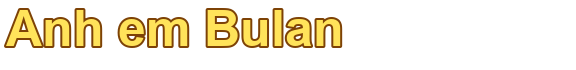
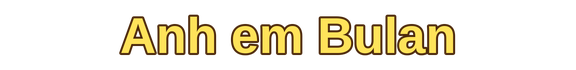
8.14

diff --git a/backend/src/GunnyServer.java b/backend/src/GunnyServer.java
@@ -222,7 +222,7 @@ public final class GunnyServer implements AutoCloseable {
         long size=end-start+1;h.set("Content-Length",""+size);if(x.getRequestMethod().equals("HEAD")){x.sendResponseHeaders(status,-1);x.close();return;}x.sendResponseHeaders(status,size);try(InputStream in=Files.newInputStream(file);OutputStream out=x.getResponseBody()){in.skipNBytes(start);byte[] buffer=new byte[16384];for(long remaining=size;remaining>0;){int n=in.read(buffer,0,(int)Math.min(buffer.length,remaining));if(n<0)break;out.write(buffer,0,n);remaining-=n;}}finally{x.close();}
     }
     void tcpRequired(HttpExchange x)throws IOException {x.sendResponseHeaders(410,-1);x.close();}
-    static String capabilities(boolean admin,boolean tcp){return "{\"sulan7912\":1,\"tribal797\":1,\"clock793\":1,\"vip\":1,\"deck\":1,\"version\":\"7.9.18\",\"tribalBotFix\":2,\"gifts\":1,\"playerui\":1,\"prefetch\":1,\"shotframes\":1,\"expansion\":1,\"forge\":1,\"forgechance\":1,\"delta\":1,\"tribal\":1,\"dungeon\":1,\"campaign\":1,\"flock\":1,\"actors\":1,\"live\":1,\"growth\":1,\"events\":1,\"charge\":1,\"progress\":1,\"bag\":1,\"admin\":"+(admin?1:0)+",\"ok\":true,\"tcp\":"+(tcp?1:0)+",\"longpoll\":"+(tcp?0:1)+",\"protocol\":1,\"controls\":2,\"rooms\":2,\"maps\":6,\"async\":1,\"seats\":6,\"departures\":1,\"pow\":2,\"replay\":1,\"chunks\":1,\"social\":1,\"lobbychat\":1,\"chatemoji\":1,\"roomchat\":1,\"matchmaking\":1,\"waitbot\":1,\"items\":2,\"cards\":1,\"shop\":1,\"arsenal\":2,\"emotions\":1,\"presence\":1,\"character\":1,\"equipment\":1,\"roomfix\":1}";}
+    static String capabilities(boolean admin,boolean tcp){return "{\"sulan7912\":1,\"tribal797\":1,\"clock793\":1,\"vip\":1,\"deck\":1,\"version\":\"7.9.18\",\"tribalBotFix\":2,\"tribalHF3\":1,\"gifts\":1,\"playerui\":1,\"prefetch\":1,\"shotframes\":1,\"expansion\":1,\"forge\":1,\"forgechance\":1,\"delta\":1,\"tribal\":1,\"dungeon\":1,\"campaign\":1,\"flock\":1,\"actors\":1,\"live\":1,\"growth\":1,\"events\":1,\"charge\":1,\"progress\":1,\"bag\":1,\"admin\":"+(admin?1:0)+",\"ok\":true,\"tcp\":"+(tcp?1:0)+",\"longpoll\":"+(tcp?0:1)+",\"protocol\":1,\"controls\":2,\"rooms\":2,\"maps\":6,\"async\":1,\"seats\":6,\"departures\":1,\"pow\":2,\"replay\":1,\"chunks\":1,\"social\":1,\"lobbychat\":1,\"chatemoji\":1,\"roomchat\":1,\"matchmaking\":1,\"waitbot\":1,\"items\":2,\"cards\":1,\"shop\":1,\"arsenal\":2,\"emotions\":1,\"presence\":1,\"character\":1,\"equipment\":1,\"roomfix\":1}";}
     void health(HttpExchange x)throws IOException{byte[] b=capabilities(admin.enabled,false).getBytes(java.nio.charset.StandardCharsets.UTF_8);x.getResponseHeaders().set("Content-Type","application/json");x.sendResponseHeaders(200,b.length);try(OutputStream out=x.getResponseBody()){out.write(b);}}
     void emailConfirmation(HttpExchange x)throws IOException{accounts.handle(x);}
     boolean limit(String key,int maximum){Window w=limits.computeIfAbsent(key,k->new Window());synchronized(w){long now=System.currentTimeMillis();if(now-w.start>60000){w.start=now;w.count=0;}return ++w.count<=maximum;}}
@@ -325,5 +325,5 @@ public final class GunnyServer implements AutoCloseable {
     }
     void tick(){try{long now=System.currentTimeMillis();for(Room r:rooms.values())synchronized(r){boolean present=false,online=false,retain=ResultResume.retain(r,now);for(Session s:r.members)if(s!=null){if(now-s.lastSeen<300000)present=true;if(now-s.lastSeen<45000)online=true;}for(Session member:r.members.clone())if(member!=null&&!TribalDungeon.is(r)&&(r.phase==1||r.phase==3||r.phase==2&&!retain)&&now-member.lastSeen>45000)leave(member);if(!retain&&(!present||r.phase==2&&!online&&now-r.lastActive>180000))rooms.remove(r.id);else r.tick();}for(Session s:sessions.values())if(s.expiry<now){if(!TribalDungeon.isRoom(this,s.room)&&(rooms.get(s.room)==null||!ResultResume.retain(rooms.get(s.room),now)))leave(s);sessions.remove(s.token);}if(limits.size()>1024)limits.entrySet().removeIf(e->now-e.getValue().start>60000);}catch(Exception e){System.err.println("Battle tick failed: "+e.getClass().getSimpleName());}finally{events.signal();}}
     public void close(){closed=true;events.signal();accounts.sessions.clear();if(tcp!=null)tcp.close();admin.close();longPoll.close();http.stop(0);clock.shutdownNow();chatMaintenance.shutdownNow();workers.shutdownNow();saves.shutdownNow();}
-    public static void main(String[] args)throws Exception {TribalConfig.load();boolean test=CloudStore.env("GUNNY_TEST_MODE").equals("1");if(test&&!CloudStore.env("RENDER").isEmpty())throw new IllegalStateException("Test accounts are prohibited on Render");int port=Integer.parseInt(CloudStore.env("PORT").isEmpty()?"8080":CloudStore.env("PORT"));String bind=test?"127.0.0.1":"0.0.0.0";GunnyServer server=new GunnyServer(new InetSocketAddress(bind,port),Path.of(CloudStore.env("GUNNY_ASSETS").isEmpty()?"assets1":CloudStore.env("GUNNY_ASSETS")),test?new CloudStore.Memory():new CloudStore());server.tcpOnly=true;int tcpPort=Integer.parseInt(CloudStore.env("TCP_PORT").isEmpty()?"22122":CloudStore.env("TCP_PORT"));if(tcpPort>0)server.startTcp(bind,tcpPort,Integer.parseInt(CloudStore.env("MAX_TCP_CLIENTS").isEmpty()?"128":CloudStore.env("MAX_TCP_CLIENTS")));Runtime.getRuntime().addShutdownHook(new Thread(server::close));System.out.println("Gunny 7.9.18 HF2 (tribalBotFix=2) HTTP listening on "+bind+":"+server.port()+", TCP on "+bind+":"+server.tcpPort()+(test?" (local test accounts only)":""));}
+    public static void main(String[] args)throws Exception {TribalConfig.load();boolean test=CloudStore.env("GUNNY_TEST_MODE").equals("1");if(test&&!CloudStore.env("RENDER").isEmpty())throw new IllegalStateException("Test accounts are prohibited on Render");int port=Integer.parseInt(CloudStore.env("PORT").isEmpty()?"8080":CloudStore.env("PORT"));String bind=test?"127.0.0.1":"0.0.0.0";GunnyServer server=new GunnyServer(new InetSocketAddress(bind,port),Path.of(CloudStore.env("GUNNY_ASSETS").isEmpty()?"assets1":CloudStore.env("GUNNY_ASSETS")),test?new CloudStore.Memory():new CloudStore());server.tcpOnly=true;int tcpPort=Integer.parseInt(CloudStore.env("TCP_PORT").isEmpty()?"22122":CloudStore.env("TCP_PORT"));if(tcpPort>0)server.startTcp(bind,tcpPort,Integer.parseInt(CloudStore.env("MAX_TCP_CLIENTS").isEmpty()?"128":CloudStore.env("MAX_TCP_CLIENTS")));Runtime.getRuntime().addShutdownHook(new Thread(server::close));System.out.println("Gunny 7.9.18 HF3 (tribalBotFix=2, tribalHF3=1) HTTP listening on "+bind+":"+server.port()+", TCP on "+bind+":"+server.tcpPort()+(test?" (local test accounts only)":""));}
 }

diff --git a/backend/src/Battle.java b/backend/src/Battle.java
@@ -20,7 +20,7 @@ final class Battle {
     int enemyOf(int actor){if(TribalRules.active(this))return TribalRules.target(this,actor);int best=actor==0?1:0,distance=99999;for(int i=0;i<unitCount;i++)if(i!=actor&&units[i].hp>0&&(!teams||units[i].team!=units[actor].team)){int d=Math.abs(units[i].x-units[actor].x);if(d<distance){distance=d;best=i;}}return best;}
     static int targetY(Unit u){return u.y-(u.npc>=TribalRules.SULAN?30:u.npc==3?42:u.npc>0?16:12);}
     static boolean hitsUnit(Unit u,int x,int y){int dx=x-u.x,dy=y-targetY(u);if(u.npc==0)return dx*dx+dy*dy<70;int rx=u.npc>=TribalRules.SULAN?22:u.npc==3?25:16,ry=u.npc>=TribalRules.SULAN?31:u.npc==3?43:15;if(Math.abs(dx)>rx||Math.abs(dy)>ry)return false;return dx*dx*ry*ry+dy*dy*rx*rx<=rx*rx*ry*ry;}
-    static int gravity(Ball b){return b.weapon==TribalRules.SPIRIT_SHOT?20:TribalRules.payload(b.weapon)?6:b.fly||b.freeze?11:b.weapon==4?14:b.weapon==2?10:b.weapon==7?12:11;}
+    static int gravity(Ball b){return (b.weapon==TribalRules.SPIRIT_SHOT||b.weapon==TribalRules.SPEAR_SHOT||b.weapon==TribalRules.CHIEF_SHOT||b.weapon==TribalRules.FIRE_SHOT)?20:TribalRules.payload(b.weapon)?6:b.fly||b.freeze?11:b.weapon==4?14:b.weapon==2?10:b.weapon==7?12:11;}
     static int windStep(int wind,Ball b){return b.weapon==AntCaveRules.QUEEN_ARROW||TribalRules.payload(b.weapon)?0:wind/(b.fly||b.freeze?7:b.weapon==4?11:b.weapon==2?5:b.weapon==7?8:b.weapon==1?9:7);}
     static int baseDamage(int weapon){return weapon==0?290:weapon==1?390:weapon==2?300:weapon==4?370:weapon==8?410:weapon==7?315:330;}
     static int baseRadius(int weapon){return weapon==0?15:weapon==1?10:weapon==2?10:weapon==4?17:weapon==7?14:12;}
@@ -135,7 +135,7 @@ final class Battle {
         if(!input())return;Unit u=units[active];u.face=dir;
         refreshAim(u);int nx=u.x+dir;if(u.energy<2||nx<12||nx>=W-12||blockedStep(u.x,nx,active,20))return;
         int rise=0;while(rise<6&&(ground.solid(nx-2,u.y-rise-1)||ground.solid(nx+2,u.y-rise-1)))rise++;
-        if(rise>=6)return;u.x=nx;u.y-=rise;u.energy-=2;u.walk++;refreshAim(u);
+        if(rise>=6)return;u.x=nx;u.y-=rise;u.energy-=2;u.walk++;refreshAim(u);if(SulanRules.active(this))SulanRules.updateFacing(this);
     }
     static int propCost(int id){return id==0||id==1?110:id==2?90:id==3||id==4?150:0;}
     boolean prop(int id){
@@ -206,7 +206,7 @@ final class Battle {
         for(int sub=0;sub<FLIGHT_SUBSTEPS;sub++)for(int i=ballCount-1;i>=0;i--){
             Ball b=balls[i];if(sub==0&&!b.fly&&!b.freeze)stampTrail(b);b.age++;if(b.homing){Unit target=units[enemyOf(b.owner)];int dx=target.x*256-b.x,dy=targetY(target)*256-b.y;int len=Math.max(1,(int)Math.sqrt((double)dx*dx+(double)dy*dy));b.vx=dx*1800/len;b.vy=dy*1800/len;}else{b.vx+=windStep(wind,b);b.vy+=gravity(b);if(b.guided)guide(b);}b.x+=b.vx/4;b.y+=b.vy/4;
             int x=b.x/256,y=b.y/256;boolean hit=!b.homing&&ground.solid(x,y);
-            if(!b.fly)for(int n=0;n<unitCount;n++){Unit u=units[n];if(u.hp>0&&(n!=b.owner||b.age>24)&&!(SulanRules.active(this)&&TribalRules.payload(b.weapon)&&units[b.owner].npc>0&&u.team==units[b.owner].team)&&hitsUnit(u,x,y))hit=true;}
+            if(!b.fly)for(int n=0;n<unitCount;n++){Unit u=units[n];if(u.hp>0&&(n!=b.owner||b.age>24)&&!(TribalRules.active(this)&&TribalRules.payload(b.weapon)&&units[b.owner].npc>0&&u.team==units[b.owner].team)&&hitsUnit(u,x,y))hit=true;}
             if(hit){impact(b);removeBall(i);}
             else if((sequentialAttack&&b.weapon!=AntCaveRules.QUEEN_ARROW&&(x<viewX||x>=viewX+viewWidth||y<viewY||y>=viewY+viewHeight))||x< -25||x>W+25||y>H+35||b.age>1600)removeBall(i);
         }
@@ -268,7 +268,7 @@ final class Battle {
     }
     void impact(Ball b){
         int x=b.x/256,y=b.y/256;
-        if(b.fly){int surface=ground.surface(x,Math.max(0,y-18));if(surface<H&&x>12&&x<W-12){units[b.owner].x=x;units[b.owner].y=surface;units[b.owner].vy=0;units[b.owner].landingTicks=32;}return;}
+        if(b.fly){int surface=ground.surface(x,Math.max(0,y-18));if(surface<H&&x>12&&x<W-12){units[b.owner].x=x;units[b.owner].y=surface;units[b.owner].vy=0;units[b.owner].landingTicks=32;if(SulanRules.active(this))SulanRules.updateFacing(this);}return;}
         if(b.freeze){if(SulanRules.active(this))SulanRules.extinguish(this,x,y);Blast ice=new Blast();ice.freeze=true;ice.x=x;ice.y=y;ice.weapon=b.weapon;if(blastCount<blasts.length)blasts[blastCount++]=ice;for(int i=0;i<unitCount;i++){Unit u=units[i];int dx=x-u.x,dy=y-targetY(u);if(u.hp>0&&!ally(b.owner,i)&&dx*dx+dy*dy<31*31){u.freezeTurns=2;u.frozen=1;}}hitSerial++;return;}
         Blast fx=new Blast();fx.x=x;fx.y=y;fx.radius=b.radius;fx.owner=b.owner;fx.weapon=b.weapon==AntCaveRules.QUEEN_ARROW?9:b.weapon;
         if(blastCount<blasts.length)blasts[blastCount++]=fx;

diff --git a/client/src/Battle.java b/client/src/Battle.java
@@ -20,7 +20,7 @@ final class Battle {
     int enemyOf(int actor){if(TribalRules.active(this))return TribalRules.target(this,actor);int best=actor==0?1:0,distance=99999;for(int i=0;i<unitCount;i++)if(i!=actor&&units[i].hp>0&&(!teams||units[i].team!=units[actor].team)){int d=Math.abs(units[i].x-units[actor].x);if(d<distance){distance=d;best=i;}}return best;}
     static int targetY(Unit u){return u.y-(u.npc>=TribalRules.SULAN?30:u.npc==3?42:u.npc>0?16:12);}
     static boolean hitsUnit(Unit u,int x,int y){int dx=x-u.x,dy=y-targetY(u);if(u.npc==0)return dx*dx+dy*dy<70;int rx=u.npc>=TribalRules.SULAN?22:u.npc==3?25:16,ry=u.npc>=TribalRules.SULAN?31:u.npc==3?43:15;if(Math.abs(dx)>rx||Math.abs(dy)>ry)return false;return dx*dx*ry*ry+dy*dy*rx*rx<=rx*rx*ry*ry;}
-    static int gravity(Ball b){return b.weapon==TribalRules.SPIRIT_SHOT?20:TribalRules.payload(b.weapon)?6:b.fly||b.freeze?11:b.weapon==4?14:b.weapon==2?10:b.weapon==7?12:11;}
+    static int gravity(Ball b){return (b.weapon==TribalRules.SPIRIT_SHOT||b.weapon==TribalRules.SPEAR_SHOT||b.weapon==TribalRules.CHIEF_SHOT||b.weapon==TribalRules.FIRE_SHOT)?20:TribalRules.payload(b.weapon)?6:b.fly||b.freeze?11:b.weapon==4?14:b.weapon==2?10:b.weapon==7?12:11;}
     static int windStep(int wind,Ball b){return b.weapon==AntCaveRules.QUEEN_ARROW||TribalRules.payload(b.weapon)?0:wind/(b.fly||b.freeze?7:b.weapon==4?11:b.weapon==2?5:b.weapon==7?8:b.weapon==1?9:7);}
     static int baseDamage(int weapon){return weapon==0?290:weapon==1?390:weapon==2?300:weapon==4?370:weapon==8?410:weapon==7?315:330;}
     static int baseRadius(int weapon){return weapon==0?15:weapon==1?10:weapon==2?10:weapon==4?17:weapon==7?14:12;}
@@ -135,7 +135,7 @@ final class Battle {
         if(!input())return;Unit u=units[active];u.face=dir;
         refreshAim(u);int nx=u.x+dir;if(u.energy<2||nx<12||nx>=W-12||blockedStep(u.x,nx,active,20))return;
         int rise=0;while(rise<6&&(ground.solid(nx-2,u.y-rise-1)||ground.solid(nx+2,u.y-rise-1)))rise++;
-        if(rise>=6)return;u.x=nx;u.y-=rise;u.energy-=2;u.walk++;refreshAim(u);
+        if(rise>=6)return;u.x=nx;u.y-=rise;u.energy-=2;u.walk++;refreshAim(u);if(SulanRules.active(this))SulanRules.updateFacing(this);
     }
     static int propCost(int id){return id==0||id==1?110:id==2?90:id==3||id==4?150:0;}
     boolean prop(int id){
@@ -206,7 +206,7 @@ final class Battle {
         for(int sub=0;sub<FLIGHT_SUBSTEPS;sub++)for(int i=ballCount-1;i>=0;i--){
             Ball b=balls[i];if(sub==0&&!b.fly&&!b.freeze)stampTrail(b);b.age++;if(b.homing){Unit target=units[enemyOf(b.owner)];int dx=target.x*256-b.x,dy=targetY(target)*256-b.y;int len=Math.max(1,(int)Math.sqrt((double)dx*dx+(double)dy*dy));b.vx=dx*1800/len;b.vy=dy*1800/len;}else{b.vx+=windStep(wind,b);b.vy+=gravity(b);if(b.guided)guide(b);}b.x+=b.vx/4;b.y+=b.vy/4;
             int x=b.x/256,y=b.y/256;boolean hit=!b.homing&&ground.solid(x,y);
-            if(!b.fly)for(int n=0;n<unitCount;n++){Unit u=units[n];if(u.hp>0&&(n!=b.owner||b.age>24)&&!(SulanRules.active(this)&&TribalRules.payload(b.weapon)&&units[b.owner].npc>0&&u.team==units[b.owner].team)&&hitsUnit(u,x,y))hit=true;}
+            if(!b.fly)for(int n=0;n<unitCount;n++){Unit u=units[n];if(u.hp>0&&(n!=b.owner||b.age>24)&&!(TribalRules.active(this)&&TribalRules.payload(b.weapon)&&units[b.owner].npc>0&&u.team==units[b.owner].team)&&hitsUnit(u,x,y))hit=true;}
             if(hit){impact(b);removeBall(i);}
             else if((sequentialAttack&&b.weapon!=AntCaveRules.QUEEN_ARROW&&(x<viewX||x>=viewX+viewWidth||y<viewY||y>=viewY+viewHeight))||x< -25||x>W+25||y>H+35||b.age>1600)removeBall(i);
         }
@@ -268,7 +268,7 @@ final class Battle {
     }
     void impact(Ball b){
         int x=b.x/256,y=b.y/256;
-        if(b.fly){int surface=ground.surface(x,Math.max(0,y-18));if(surface<H&&x>12&&x<W-12){units[b.owner].x=x;units[b.owner].y=surface;units[b.owner].vy=0;units[b.owner].landingTicks=32;}return;}
+        if(b.fly){int surface=ground.surface(x,Math.max(0,y-18));if(surface<H&&x>12&&x<W-12){units[b.owner].x=x;units[b.owner].y=surface;units[b.owner].vy=0;units[b.owner].landingTicks=32;if(SulanRules.active(this))SulanRules.updateFacing(this);}return;}
         if(b.freeze){if(SulanRules.active(this))SulanRules.extinguish(this,x,y);Blast ice=new Blast();ice.freeze=true;ice.x=x;ice.y=y;ice.weapon=b.weapon;if(blastCount<blasts.length)blasts[blastCount++]=ice;for(int i=0;i<unitCount;i++){Unit u=units[i];int dx=x-u.x,dy=y-targetY(u);if(u.hp>0&&!ally(b.owner,i)&&dx*dx+dy*dy<31*31){u.freezeTurns=2;u.frozen=1;}}hitSerial++;return;}
         Blast fx=new Blast();fx.x=x;fx.y=y;fx.radius=b.radius;fx.owner=b.owner;fx.weapon=b.weapon==AntCaveRules.QUEEN_ARROW?9:b.weapon;
         if(blastCount<blasts.length)blasts[blastCount++]=fx;

diff --git a/backend/src/TribalRules.java b/backend/src/TribalRules.java
@@ -49,7 +49,7 @@ final class TribalRules {
  static void place(Battle b,int slot,int x){Battle.Unit u=b.units[slot];u.x=Battle.clamp(x,18,Battle.W-18);u.y=b.ground.surface(u.x,5);u.vy=0;b.refreshAim(u);}
  static void spawn(Battle b,int slot,int kind,int x){
   Battle.Unit u=b.units[slot];u.npc=kind;u.team=kind==BEAN?0:1;u.human=false;u.dead=false;u.statsEnabled=false;
-  u.maxHp=(kind==RAGE&&b.dungeonDifficulty==0?8000:HP[kind-SPEAR])*(100+b.dungeonDifficulty*45)/100;u.hp=u.maxHp;u.maxEnergy=u.energy=240;
+  u.maxHp=(kind==RAGE&&b.dungeonDifficulty==0?8000:HP[kind-SPEAR])*(100+b.dungeonDifficulty*45)/100*(kind==RAGE?2:1);u.hp=u.maxHp;u.maxEnergy=u.energy=240;
   u.weapon=8;u.attackBonus=DAMAGE[b.dungeonDifficulty]-Battle.baseDamage(8);u.defense=0;
   u.face=-1;u.angle=45;u.power=0;u.flashTicks=30;u.attackTicks=u.walk=u.frozen=u.freezeTurns=0;u.lastBuff=14;place(b,slot,x);
   if(floats(u))platform(b,u,3);
@@ -89,6 +89,11 @@ final class TribalRules {
   if(SulanRules.active(b))return SulanRules.nextActor(b,actor);
   if(stage(b)==1){
    int first=-1,last=-1;for(int i=0;i<b.unitCount;i++)if(b.units[i].hp>0){if(b.units[i].npc==SPEAR&&first<0)first=i;if(b.units[i].npc==ELITE&&last<0)last=i;}
+   // A wiped wave gets a reinforcement-only round, not a camera/attack turn.
+   if(first<0&&last<0&&b.tribalGoal>0){
+    for(int i=actor+2;i<6;i+=2)if(b.units[i].hp>0&&b.units[i].npc==0)return i;
+    round(b);for(int i=0;i<6;i+=2)if(b.units[i].hp>0)return i;
+   }
    int[] order={first,last,0,2,4};int old=b.units[actor].npc==SPEAR?0:b.units[actor].npc==ELITE?1:actor==0?2:actor==2?3:4;
    for(int n=1;n<=5;n++){int k=(old+n)%5;if(order[k]>=0&&b.units[order[k]].hp>0){if(k<=old)round(b);return order[k];}}
    return actor;
@@ -110,7 +115,7 @@ final class TribalRules {
   }
   for(int i=6;i<13;i++){
    Battle.Unit u=b.units[i];if(u.hp<=0)continue;
-   if(u.npc==HEAL)heal(b,b.units[1],b.units[1].maxHp/12);
+   if(u.npc==HEAL&&!SulanRules.active(b))heal(b,b.units[1],b.units[1].maxHp/12);
    if(u.npc==BOMB&&++u.power>=2){Battle.Ball hit=new Battle.Ball();hit.owner=1;hit.x=u.x*256;hit.y=(u.y-12)*256;hit.damage=DAMAGE[b.dungeonDifficulty]*2;hit.radius=42;hit.weapon=FIRE_SHOT;b.impact(hit);u.hp=0;}
   }
 
@@ -149,11 +154,12 @@ final class TribalRules {
   if(stage(b)==1&&b.tribalGoal==0||stage(b)==4&&b.units[1].hp<=0||twins(b)&&b.units[1].hp<=0&&b.units[3].hp<=0||!enemy&&stage(b)!=1){b.tribalOutcome=0;b.tribalState=DEAD;b.tribalFx=stage(b)==4?SulanRules.DEATH:35;if(stage(b)==4){b.sulanFireCount=0;SulanRules.say(b,SulanRules.FAREWELL,1,85);}b.ballCount=b.bursts=b.settle=0;b.charging=b.pendingNext=false;return false;}
   if(b.turn>200){win(b,1);return true;}return false;
  }
+ static int flightSteps(int distance){return Math.max(85,Math.min(150,(distance+90)*3/5));}
  static void projectile(Battle b,int actor,int victim,int weapon,int offset){
   if(b.ballCount>=b.balls.length)return;Battle.Unit u=b.units[actor],v=b.units[victim];Battle.Ball p=new Battle.Ball();
+  if(u.npc==ELITE||u.npc>=SULAN){if(v.x!=u.x)u.face=v.x<u.x?-1:1;}
   p.owner=actor;p.weapon=weapon;p.x=(u.x+u.face*(u.npc>=SULAN?22:12))*256;p.y=(u.y-(u.npc>=SULAN?39:22))*256;
-  int steps=floats(u)?Math.max(85,Math.min(150,(Math.abs(v.x-u.x)+90)*3/5)):u.npc==ELITE?Math.max(140,Math.min(240,Math.abs(v.x-u.x)*2/3+100)):Math.max(70,Math.min(170,Math.abs(v.x-u.x)*2/3+65));
-  if(weapon==CHIEF_SHOT)steps=Math.max(260,Math.min(340,Math.abs(v.x-u.x)+90));
+  int steps=flightSteps(Math.abs(v.x-u.x));
   p.vx=(v.x*256-p.x)*4/steps;p.vy=((Battle.targetY(v)+(u.npc==ELITE?0:offset))*256-p.y)*4/steps-Battle.gravity(p)*(steps+1)/2;
   if(u.npc==ELITE){int vx=p.vx,vy=p.vy,cs=Battle.cos(offset),sn=Battle.sin(offset);p.vx=(vx*cs-vy*sn)/1024;p.vy=(vx*sn+vy*cs)/1024;}
   p.radius=weapon==FIRE_SHOT?11:4;p.damage=DAMAGE[b.dungeonDifficulty]*(u.npc==RAGE?130:100)/100;

diff --git a/client/src/TribalRules.java b/client/src/TribalRules.java
@@ -49,7 +49,7 @@ final class TribalRules {
  static void place(Battle b,int slot,int x){Battle.Unit u=b.units[slot];u.x=Battle.clamp(x,18,Battle.W-18);u.y=b.ground.surface(u.x,5);u.vy=0;b.refreshAim(u);}
  static void spawn(Battle b,int slot,int kind,int x){
   Battle.Unit u=b.units[slot];u.npc=kind;u.team=kind==BEAN?0:1;u.human=false;u.dead=false;u.statsEnabled=false;
-  u.maxHp=(kind==RAGE&&b.dungeonDifficulty==0?8000:HP[kind-SPEAR])*(100+b.dungeonDifficulty*45)/100;u.hp=u.maxHp;u.maxEnergy=u.energy=240;
+  u.maxHp=(kind==RAGE&&b.dungeonDifficulty==0?8000:HP[kind-SPEAR])*(100+b.dungeonDifficulty*45)/100*(kind==RAGE?2:1);u.hp=u.maxHp;u.maxEnergy=u.energy=240;
   u.weapon=8;u.attackBonus=DAMAGE[b.dungeonDifficulty]-Battle.baseDamage(8);u.defense=0;
   u.face=-1;u.angle=45;u.power=0;u.flashTicks=30;u.attackTicks=u.walk=u.frozen=u.freezeTurns=0;u.lastBuff=14;place(b,slot,x);
   if(floats(u))platform(b,u,3);
@@ -89,6 +89,11 @@ final class TribalRules {
   if(SulanRules.active(b))return SulanRules.nextActor(b,actor);
   if(stage(b)==1){
    int first=-1,last=-1;for(int i=0;i<b.unitCount;i++)if(b.units[i].hp>0){if(b.units[i].npc==SPEAR&&first<0)first=i;if(b.units[i].npc==ELITE&&last<0)last=i;}
+   // A wiped wave gets a reinforcement-only round, not a camera/attack turn.
+   if(first<0&&last<0&&b.tribalGoal>0){
+    for(int i=actor+2;i<6;i+=2)if(b.units[i].hp>0&&b.units[i].npc==0)return i;
+    round(b);for(int i=0;i<6;i+=2)if(b.units[i].hp>0)return i;
+   }
    int[] order={first,last,0,2,4};int old=b.units[actor].npc==SPEAR?0:b.units[actor].npc==ELITE?1:actor==0?2:actor==2?3:4;
    for(int n=1;n<=5;n++){int k=(old+n)%5;if(order[k]>=0&&b.units[order[k]].hp>0){if(k<=old)round(b);return order[k];}}
    return actor;
@@ -110,7 +115,7 @@ final class TribalRules {
   }
   for(int i=6;i<13;i++){
    Battle.Unit u=b.units[i];if(u.hp<=0)continue;
-   if(u.npc==HEAL)heal(b,b.units[1],b.units[1].maxHp/12);
+   if(u.npc==HEAL&&!SulanRules.active(b))heal(b,b.units[1],b.units[1].maxHp/12);
    if(u.npc==BOMB&&++u.power>=2){Battle.Ball hit=new Battle.Ball();hit.owner=1;hit.x=u.x*256;hit.y=(u.y-12)*256;hit.damage=DAMAGE[b.dungeonDifficulty]*2;hit.radius=42;hit.weapon=FIRE_SHOT;b.impact(hit);u.hp=0;}
   }
 
@@ -149,11 +154,12 @@ final class TribalRules {
   if(stage(b)==1&&b.tribalGoal==0||stage(b)==4&&b.units[1].hp<=0||twins(b)&&b.units[1].hp<=0&&b.units[3].hp<=0||!enemy&&stage(b)!=1){b.tribalOutcome=0;b.tribalState=DEAD;b.tribalFx=stage(b)==4?SulanRules.DEATH:35;if(stage(b)==4){b.sulanFireCount=0;SulanRules.say(b,SulanRules.FAREWELL,1,85);}b.ballCount=b.bursts=b.settle=0;b.charging=b.pendingNext=false;return false;}
   if(b.turn>200){win(b,1);return true;}return false;
  }
+ static int flightSteps(int distance){return Math.max(85,Math.min(150,(distance+90)*3/5));}
  static void projectile(Battle b,int actor,int victim,int weapon,int offset){
   if(b.ballCount>=b.balls.length)return;Battle.Unit u=b.units[actor],v=b.units[victim];Battle.Ball p=new Battle.Ball();
+  if(u.npc==ELITE||u.npc>=SULAN){if(v.x!=u.x)u.face=v.x<u.x?-1:1;}
   p.owner=actor;p.weapon=weapon;p.x=(u.x+u.face*(u.npc>=SULAN?22:12))*256;p.y=(u.y-(u.npc>=SULAN?39:22))*256;
-  int steps=floats(u)?Math.max(85,Math.min(150,(Math.abs(v.x-u.x)+90)*3/5)):u.npc==ELITE?Math.max(140,Math.min(240,Math.abs(v.x-u.x)*2/3+100)):Math.max(70,Math.min(170,Math.abs(v.x-u.x)*2/3+65));
-  if(weapon==CHIEF_SHOT)steps=Math.max(260,Math.min(340,Math.abs(v.x-u.x)+90));
+  int steps=flightSteps(Math.abs(v.x-u.x));
   p.vx=(v.x*256-p.x)*4/steps;p.vy=((Battle.targetY(v)+(u.npc==ELITE?0:offset))*256-p.y)*4/steps-Battle.gravity(p)*(steps+1)/2;
   if(u.npc==ELITE){int vx=p.vx,vy=p.vy,cs=Battle.cos(offset),sn=Battle.sin(offset);p.vx=(vx*cs-vy*sn)/1024;p.vy=(vx*sn+vy*cs)/1024;}
   p.radius=weapon==FIRE_SHOT?11:4;p.damage=DAMAGE[b.dungeonDifficulty]*(u.npc==RAGE?130:100)/100;

diff --git a/backend/src/SulanRules.java b/backend/src/SulanRules.java
@@ -30,6 +30,17 @@ final class SulanRules {
  }return "";}
  static boolean red(Battle b){return b.sulanSpeaker==1&&b.tribalPhase==2&&b.sulanLine!=BORROW;}
  static void say(Battle b,int line,int actor,int ticks){b.sulanLine=line;b.sulanSpeaker=actor;b.sulanTalk=ticks;}
+ static void updateFacing(Battle b){
+  Battle.Unit boss=b.units[1];if(boss.hp<=0||boss.npc!=TribalRules.SULAN&&boss.npc!=TribalRules.RAGE)return;
+  // Keep the shot's facing during a boss attack; each launch aims at its own victim.
+  if(b.active==1&&b.tribalFx==0&&b.tribalClock>0)return;
+  int victim=b.units[b.active].npc==0&&b.units[b.active].hp>0&&b.units[b.active].team==0?b.active:TribalRules.target(b,1);if(victim!=1&&b.units[victim].x!=boss.x)boss.face=b.units[victim].x<boss.x?-1:1;
+ }
+ static void callHealTotem(Battle b){
+  Battle.Unit u=b.units[1];if(b.units[12].hp<=0)TribalRules.spawn(b,12,TribalRules.HEAL,Battle.clamp(u.x-u.face*35,18,462));
+  // One call per red boss turn; only the fifth call heals, then repeat.
+  if(u.power%5==0&&b.units[12].npc==TribalRules.HEAL&&b.units[12].hp>0){TribalRules.heal(b,u,u.maxHp*15/100);say(b,21,1,80);}
+ }
  static int firstPlayer(Battle b){for(int i=0;i<6;i+=2)if(b.units[i].hp>0)return i;return 0;}
  static int playerCount(Battle b){int n=0;for(int i=0;i<6;i+=2)if(b.units[i].hp>0)n++;return n;}
  static int target(Battle b,int index){for(int i=0;i<6;i+=2)if(b.units[i].hp>0&&index--==0)return i;return firstPlayer(b);}
@@ -106,8 +117,9 @@ final class SulanRules {
  }
  static void ambient(Battle b){
   if(!active(b)||b.over||b.tribalFx>0||b.pendingNext)return;
+  updateFacing(b);
   if(b.sulanTalk>0)b.sulanTalk--;
-  if(b.tribalPhase==2&&b.units[b.active].npc==0&&b.sulanStory<3&&++b.sulanStoryClock>=120&&b.sulanTalk==0){say(b,STORY1+b.sulanStory++,firstPlayer(b),100);b.sulanStoryClock=0;}
+  if(b.tribalPhase==2&&b.units[6].npc==TribalRules.BEAN&&b.units[6].hp>0&&b.units[b.active].npc==0&&b.sulanStory<3&&++b.sulanStoryClock>=120&&b.sulanTalk==0){say(b,STORY1+b.sulanStory++,6,100);b.sulanStoryClock=0;}
   for(int i=b.sulanFireCount-1;i>=0;i--){
    int life=--b.sulanFireLife[i];
    if(life<=0){int last=--b.sulanFireCount;b.sulanFireX[i]=b.sulanFireX[last];b.sulanFireLife[i]=b.sulanFireLife[last];}
@@ -125,7 +137,7 @@ final class SulanRules {
  static void fireball(Battle b,int victim,int spread){TribalRules.projectile(b,1,victim,TribalRules.FIRE_SHOT,spread);}
  static void tickAI(Battle b){
   Battle.Unit u=b.units[b.active];if(u.hp<=0){b.next();return;}
-  int t=++b.tribalClock;u.walk=t;b.botWait=t;u.face=u.npc==TribalRules.BEAN?(b.units[1].x<u.x?-1:1):-1;
+  int t=++b.tribalClock;u.walk=t;b.botWait=t;if(u.npc==TribalRules.BEAN)u.face=b.units[1].x<u.x?-1:1;else if(t==1){int victim=TribalRules.target(b,b.active);if(victim!=b.active&&b.units[victim].x!=u.x)u.face=b.units[victim].x<u.x?-1:1;}
   if(u.npc==TribalRules.BEAN){
    b.tribalState=TribalRules.SPECIAL;
    if(t==1){u.attackTicks=36;say(b,NEAR,6,80);}
@@ -134,7 +146,7 @@ final class SulanRules {
   }
   if(t>35&&b.tribalState==TribalRules.SUMMON){if(u.attackTicks==0&&!b.busy()){b.tribalState=TribalRules.IDLE;b.next();}return;}
   if(t==1){u.power++;b.tribalBeanSaved=false;say(b,u.npc==TribalRules.SULAN?SPEAR:u.power%2==1?HELL:FURY,1,130);}
-  if(t==1&&u.npc==TribalRules.RAGE){if(b.units[12].hp<=0)TribalRules.spawn(b,12,TribalRules.HEAL,Battle.clamp(u.x-u.face*35,18,462));if(b.units[12].npc==TribalRules.HEAL&&b.units[12].hp>0)TribalRules.heal(b,u,Math.max(1,u.maxHp/20));}
+  if(t==1&&u.npc==TribalRules.RAGE)callHealTotem(b);
   if(u.npc==TribalRules.RAGE&&t<=30){b.tribalState=TribalRules.SUMMON;return;}
   boolean fury=u.npc==TribalRules.RAGE&&u.power%2==0;
   b.tribalState=fury?TribalRules.SPECIAL:TribalRules.ATTACK;

diff --git a/client/src/SulanRules.java b/client/src/SulanRules.java
@@ -30,6 +30,17 @@ final class SulanRules {
  }return "";}
  static boolean red(Battle b){return b.sulanSpeaker==1&&b.tribalPhase==2&&b.sulanLine!=BORROW;}
  static void say(Battle b,int line,int actor,int ticks){b.sulanLine=line;b.sulanSpeaker=actor;b.sulanTalk=ticks;}
+ static void updateFacing(Battle b){
+  Battle.Unit boss=b.units[1];if(boss.hp<=0||boss.npc!=TribalRules.SULAN&&boss.npc!=TribalRules.RAGE)return;
+  // Keep the shot's facing during a boss attack; each launch aims at its own victim.
+  if(b.active==1&&b.tribalFx==0&&b.tribalClock>0)return;
+  int victim=b.units[b.active].npc==0&&b.units[b.active].hp>0&&b.units[b.active].team==0?b.active:TribalRules.target(b,1);if(victim!=1&&b.units[victim].x!=boss.x)boss.face=b.units[victim].x<boss.x?-1:1;
+ }
+ static void callHealTotem(Battle b){
+  Battle.Unit u=b.units[1];if(b.units[12].hp<=0)TribalRules.spawn(b,12,TribalRules.HEAL,Battle.clamp(u.x-u.face*35,18,462));
+  // One call per red boss turn; only the fifth call heals, then repeat.
+  if(u.power%5==0&&b.units[12].npc==TribalRules.HEAL&&b.units[12].hp>0){TribalRules.heal(b,u,u.maxHp*15/100);say(b,21,1,80);}
+ }
  static int firstPlayer(Battle b){for(int i=0;i<6;i+=2)if(b.units[i].hp>0)return i;return 0;}
  static int playerCount(Battle b){int n=0;for(int i=0;i<6;i+=2)if(b.units[i].hp>0)n++;return n;}
  static int target(Battle b,int index){for(int i=0;i<6;i+=2)if(b.units[i].hp>0&&index--==0)return i;return firstPlayer(b);}
@@ -106,8 +117,9 @@ final class SulanRules {
  }
  static void ambient(Battle b){
   if(!active(b)||b.over||b.tribalFx>0||b.pendingNext)return;
+  updateFacing(b);
   if(b.sulanTalk>0)b.sulanTalk--;
-  if(b.tribalPhase==2&&b.units[b.active].npc==0&&b.sulanStory<3&&++b.sulanStoryClock>=120&&b.sulanTalk==0){say(b,STORY1+b.sulanStory++,firstPlayer(b),100);b.sulanStoryClock=0;}
+  if(b.tribalPhase==2&&b.units[6].npc==TribalRules.BEAN&&b.units[6].hp>0&&b.units[b.active].npc==0&&b.sulanStory<3&&++b.sulanStoryClock>=120&&b.sulanTalk==0){say(b,STORY1+b.sulanStory++,6,100);b.sulanStoryClock=0;}
   for(int i=b.sulanFireCount-1;i>=0;i--){
    int life=--b.sulanFireLife[i];
    if(life<=0){int last=--b.sulanFireCount;b.sulanFireX[i]=b.sulanFireX[last];b.sulanFireLife[i]=b.sulanFireLife[last];}
@@ -125,7 +137,7 @@ final class SulanRules {
  static void fireball(Battle b,int victim,int spread){TribalRules.projectile(b,1,victim,TribalRules.FIRE_SHOT,spread);}
  static void tickAI(Battle b){
   Battle.Unit u=b.units[b.active];if(u.hp<=0){b.next();return;}
-  int t=++b.tribalClock;u.walk=t;b.botWait=t;u.face=u.npc==TribalRules.BEAN?(b.units[1].x<u.x?-1:1):-1;
+  int t=++b.tribalClock;u.walk=t;b.botWait=t;if(u.npc==TribalRules.BEAN)u.face=b.units[1].x<u.x?-1:1;else if(t==1){int victim=TribalRules.target(b,b.active);if(victim!=b.active&&b.units[victim].x!=u.x)u.face=b.units[victim].x<u.x?-1:1;}
   if(u.npc==TribalRules.BEAN){
    b.tribalState=TribalRules.SPECIAL;
    if(t==1){u.attackTicks=36;say(b,NEAR,6,80);}
@@ -134,7 +146,7 @@ final class SulanRules {
   }
   if(t>35&&b.tribalState==TribalRules.SUMMON){if(u.attackTicks==0&&!b.busy()){b.tribalState=TribalRules.IDLE;b.next();}return;}
   if(t==1){u.power++;b.tribalBeanSaved=false;say(b,u.npc==TribalRules.SULAN?SPEAR:u.power%2==1?HELL:FURY,1,130);}
-  if(t==1&&u.npc==TribalRules.RAGE){if(b.units[12].hp<=0)TribalRules.spawn(b,12,TribalRules.HEAL,Battle.clamp(u.x-u.face*35,18,462));if(b.units[12].npc==TribalRules.HEAL&&b.units[12].hp>0)TribalRules.heal(b,u,Math.max(1,u.maxHp/20));}
+  if(t==1&&u.npc==TribalRules.RAGE)callHealTotem(b);
   if(u.npc==TribalRules.RAGE&&t<=30){b.tribalState=TribalRules.SUMMON;return;}
   boolean fury=u.npc==TribalRules.RAGE&&u.power%2==0;
   b.tribalState=fury?TribalRules.SPECIAL:TribalRules.ATTACK;

diff --git a/backend/tests/TribalHF3Check.java b/backend/tests/TribalHF3Check.java
@@ -1,0 +1,29 @@
+/** HF3 behavioral tests: wiped waves, friendly pass-through, flight, red HP, heal cadence, dialogue, facing. */
+public final class TribalHF3Check {
+ static int checks;
+ static void ok(boolean v,String s){if(!v)throw new AssertionError(s);checks++;}
+ static void wipe(){for(int party=1;party<=3;party++){
+  Battle b=TribalCheck.battle(1,0);for(int i=0;i<6;i+=2){b.units[i].hp=i/2<party?30000:0;b.units[i].maxHp=30000;}
+  b.tribalState=TribalRules.IDLE;b.beginTurn(0);int shots=b.shotSerial;
+  for(int i=0;i<b.unitCount;i++)if(b.units[i].team==1)b.units[i].hp=0;b.check();int goal=b.tribalGoal;
+  for(int i=0;i<party;i++){b.next();ok(b.units[b.active].npc==0,"Wiped wave skips every enemy attack turn");}
+  ok(b.active==0&&b.tribalGoal==goal&&TribalRules.alive(b,TribalRules.ELITE)&&TribalRules.alive(b,TribalRules.SPEAR)&&b.shotSerial==shots,"Respawn only; party immediately gets turn");
+  for(int i=0;i<party;i++)b.next();ok(b.units[b.active].npc==TribalRules.SPEAR,"Next enemy round operates normally");
+ }}
+ static void shots(){Battle b=TribalCheck.battle(1,0);b.tribalState=TribalRules.IDLE;b.units[0].x=60;b.units[0].hp=b.units[0].maxHp=30000;b.units[1].x=300;b.units[1].face=-1;
+  for(int i=3;i<b.unitCount;i++)if(b.units[i].npc==TribalRules.SPEAR)b.units[i].hp=0;
+  TribalRules.spawn(b,3,TribalRules.SPEAR,285);b.beginTurn(1);int hp=b.units[0].hp,friend=b.units[3].hp;TribalRules.projectile(b,1,0,TribalRules.SPEAR_SHOT,0);
+  Battle.Ball p=b.balls[0];ok(p.vy<0&&Battle.gravity(p)==20,"Warrior uses upward Bulan gravity");b.tick();ok(b.ballCount==1,"Friendly spear unit at muzzle does not intercept");int frames=1,min=p.y;while(b.ballCount>0&&frames<80){b.tick();min=Math.min(min,p.y);frames++;}
+  ok(frames<=32&&b.units[0].hp<hp&&b.units[3].hp==friend&&min<210*256,"Real flight hits player, arcs and leaves allied soldier unharmed");
+  for(int d:new int[]{40,150,240,400})ok(TribalRules.flightSteps(d)>=85&&TribalRules.flightSteps(d)<=150,"All tribal throws use Bulan flight duration");
+ }
+ static void finalBoss(){int[] hp={16000,40600,53200};for(int d=0;d<3;d++){
+  Battle b=Sulan7912Check.raid(3,d);b.beginTurn(0);b.units[0].x=420;b.units[2].x=240;SulanRules.updateFacing(b);ok(b.units[1].face==1,"Gold faces player behind even with ally in front");b.units[0].x=60;SulanRules.updateFacing(b);ok(b.units[1].face==-1,"Gold faces left again");
+  Sulan7912Check.red(b);ok(b.units[1].maxHp==hp[d]&&b.units[1].hp==hp[d],"Red HP doubled on all difficulties");b.beginTurn(0);b.units[0].x=430;SulanRules.updateFacing(b);ok(b.units[1].face==1,"Red follows player behind");
+  b.units[1].hp=hp[d]/2;int initial=b.units[1].hp;
+  for(int call=1;call<=10;call++){b.units[1].power=call;SulanRules.callHealTotem(b);ok(b.units[1].hp==initial+hp[d]*15/100*(call/5),"Exactly 15 percent max HP per five calls");ok(b.units[12].npc==TribalRules.HEAL&&b.units[12].hp>0,"Native totem alive");}
+  b.units[1].hp=hp[d]-1;b.units[1].power=15;SulanRules.callHealTotem(b);ok(b.units[1].hp==hp[d],"Healing capped at max HP");
+  b.sulanStory=0;b.sulanStoryClock=119;b.sulanTalk=0;SulanRules.ambient(b);ok(b.sulanLine==SulanRules.STORY1&&b.sulanSpeaker==6,"Story first line belongs to pea");b.sulanTalk=0;b.sulanStoryClock=119;SulanRules.ambient(b);ok(b.sulanLine==SulanRules.STORY2&&b.sulanSpeaker==6,"Awaken villagers line belongs to pea");
+ }}
+ public static void main(String[] args){wipe();shots();finalBoss();System.out.println("PASS "+checks+" HF3 wave skip, allied collision, flight, doubled HP, totem cadence, dialogue and facing checks");}
+}

diff --git a/backend/tests/TribalCheck.java b/backend/tests/TribalCheck.java
@@ -14,7 +14,7 @@ public class TribalCheck {
    b.units[1].hp=b.units[3].hp=0;b.check();b.tribalFx=0;b.check();check(b.over&&b.winner==0,"Both Bulan dead wins");
    b=battle(2,diff);TribalRules.summon(b,TribalRules.CHAIN,290);b.active=0;int angle=b.units[0].angle;b.adjustAngle(1);check(angle==b.units[0].angle,"Chain locks angle");b.units[6].hp=0;b.adjustAngle(1);check(angle+1==b.units[0].angle,"Destroy chain unlocks angle");TribalRules.summon(b,TribalRules.FATIGUE,290);b.beginTurn(0);check(b.units[0].energy==b.units[0].maxEnergy-TribalRules.fatigue(b),"Fatigue drains energy by difficulty");b.units[6].hp=0;b.beginTurn(0);check(b.units[0].energy==b.units[0].maxEnergy,"Destroy fatigue restores next turn energy");
    b=battle(4,diff);b.units[1].hp=0;b.check();check(!b.over&&b.tribalPhase==1&&b.units[1].npc==TribalRules.SULAN&&!b.input(),"Golden death begins in the same encounter and blocks input");while(b.tribalFx>0)b.tick();check(b.tribalPhase==2&&b.units[1].npc==TribalRules.RAGE,"Red form spawns after golden death");
-   int totem=TribalRules.summon(b,TribalRules.HEAL,260);b.units[1].hp=100;TribalRules.round(b);check(b.units[1].hp>100,"HP totem heals boss");b.units[totem].hp=0;b.units[1].hp=100;TribalRules.round(b);check(b.units[1].hp==100,"Destroyed HP totem stops healing");
+   int totem=TribalRules.summon(b,TribalRules.HEAL,260);b.units[1].hp=100;TribalRules.round(b);check(b.units[1].hp==100,"No passive HP totem healing");b.units[totem].hp=0;b.units[1].hp=100;TribalRules.round(b);check(b.units[1].hp==100,"Destroyed HP totem does not heal");
    int bomb=TribalRules.summon(b,TribalRules.BOMB,b.units[0].x);int before=b.units[0].hp;TribalRules.round(b);for(int tick=0;tick<40;tick++)b.tickVisuals();check(b.units[bomb].hp>0,"Bomb first warning round");TribalRules.round(b);check(b.units[bomb].hp==0&&b.units[0].hp<before,"Bomb second-round detonation");
    b.units[1].hp=0;b.check();check(!b.over&&b.tribalState==TribalRules.DEAD,"Final death pose precedes results");b.tribalFx=0;b.check();check(b.over&&b.winner==0,"Final form win");
   }

diff --git a/backend/tests/Sulan7915Check.java b/backend/tests/Sulan7915Check.java
@@ -1,8 +1,8 @@
 public final class Sulan7915Check {
  static void ok(boolean v,String text){if(!v)throw new AssertionError(text);}
  public static void main(String[] args){
-  Battle b=Sulan7912Check.raid(1,0);Sulan7912Check.red(b);ok(b.units[1].maxHp==8000,"Easy red HP reduced");ok(b.units[6].face==1,"Pea faces boss");
-  b.units[1].hp=4000;b.beginTurn(1);b.tick();ok(b.units[12].npc==TribalRules.HEAL&&b.units[12].hp>0&&b.units[1].hp==4400,"Summon native totem and heal five percent maximum HP");for(int i=0;i<10;i++)b.tick();ok(b.units[1].hp==4400,"Heal once, never each frame");
+  Battle b=Sulan7912Check.raid(1,0);Sulan7912Check.red(b);ok(b.units[1].maxHp==16000,"Easy red HP doubled");ok(b.units[6].face==1,"Pea faces boss");
+  b.units[1].hp=4000;b.beginTurn(1);b.tick();ok(b.units[12].npc==TribalRules.HEAL&&b.units[12].hp>0&&b.units[1].hp==4000,"Summon native totem without early healing");for(int i=0;i<10;i++)b.tick();ok(b.units[1].hp==4000,"No heal on each frame");
   b.beginTurn(0);b.sulanBurn[0]=1;b.units[0].x=20;int hp=b.units[0].hp;for(int i=0;i<90;i++)SulanRules.ambient(b);ok(b.units[0].hp==hp,"No damage by seconds");b.beginTurn(0);ok(b.units[0].hp==hp-30,"Damage once on own turn");
   SulanRules.ignite(b,b.units[0].x);Battle.Ball ice=new Battle.Ball();ice.owner=0;ice.freeze=true;ice.x=b.units[0].x*256;ice.y=Battle.targetY(b.units[0])*256;b.impact(ice);ok(b.sulanBurn[0]==0&&b.sulanFireCount==0,"Friendly/self ice extinguishes attached and ground fire");
   b.sulanBurn[0]=1;b.units[6].hp=0;b.beginTurn(0);ok(b.sulanBurn[0]==1,"Dead pea cannot extinguish automatically");

diff --git a/client/src/TribalArt.java b/client/src/TribalArt.java
@@ -101,9 +101,16 @@ final class TribalArt {
   if(b.tribalState==TribalRules.OPENING&&age>=SulanRules.TITLE_AT&&age<SulanRules.TITLE_AT+81){int t=age-SulanRules.TITLE_AT;titleShade(t,81);if(sulanTitle==null)sulanTitle=c.combatRoomArt("tribal-sulan-title");c.clip(8,40,t<10?101:t<21?183:304,34);c.img(sulanTitle,8,40);c.all();return;}
   if(b.sulanTalk<=0||b.sulanLine==0)return;
   if(talkLine!=b.sulanLine||talkLines==null){talkLine=b.sulanLine;talkLines=lines(SulanRules.dialogue(talkLine));}
-  Battle.Unit u=b.units[b.sulanSpeaker];int x=u.x-c.cameraX,y=u.y-c.cameraY-(u.npc>=14?64:36);
+  int actor=b.sulanSpeaker;Battle.Unit u=b.units[actor];
+  if(u.hp<=0&&u.npc==TribalRules.BEAN)return;
+  int x=u.x-c.cameraX,y=u.y-c.cameraY-(u.npc>=14?64:u.npc==TribalRules.BEAN?45:36);
+  // Anchor the tail to the speaker, never the active player's HUD. If the head
+  // is too near the HUD, put the bubble below it with an upward tail.
+  int height=talkLines.length*11+10,feet=u.y-c.cameraY+6;
+  boolean below=y<65+height+9&&feet+height+9<=240;
+  int tip=below?feet:y,top=below||y>=65+height+9?65:4;
   if(SulanRules.red(b)){if(redSpeech==null)redSpeech=c.combatRoomArt("font-sulan-red");c.speechOverride=redSpeech;}
-  try{if(x>=-20&&x<340)c.drawSpeechBubble(Battle.clamp(x,25,295),Battle.clamp(y,65,190),talkLines,65);}finally{c.speechOverride=null;}
+  try{if(x>=0&&x<320&&y>=0&&y<240)c.drawSpeechBubble(x,tip,talkLines,top,below);}finally{c.speechOverride=null;}
  }
  void worldEffects(){
   Battle b=c.game;

diff --git a/client/tools/boss_titles_hf3.py b/client/tools/boss_titles_hf3.py
@@ -1,0 +1,14 @@
+"""One bold title face and palette for all three boss intro banners."""
+from pathlib import Path
+from PIL import Image, ImageDraw, ImageFont
+import argparse
+p=argparse.ArgumentParser();p.add_argument('--font',type=Path,required=True);a=p.parse_args()
+root=Path(__file__).resolve().parents[1]
+for scale in (1,2):
+ for name,text,w,h in [('npc780-queen-title','Nữ vương kiến',304,34),('tribal-bulan-title','Anh em Bulan',288,35),('tribal-sulan-title','Thủ lĩnh bộ lạc',304,34)]:
+  aa=3;factor=aa*scale
+  font=ImageFont.truetype(str(a.font),25*factor)
+  im=Image.new('RGBA',(w*factor,h*factor));d=ImageDraw.Draw(im)
+  l,t,r,b=d.textbbox((0,0),text,font=font,stroke_width=factor)
+  d.text(((im.width-r-l)//2,(im.height-b-t)//2),text,font=font,fill='#ffe35a',stroke_width=factor,stroke_fill='#4c290b')
+  im.resize((w*scale,h*scale),Image.Resampling.LANCZOS).save(root/f'assets{scale}'/(name+'.png'),optimize=True)
